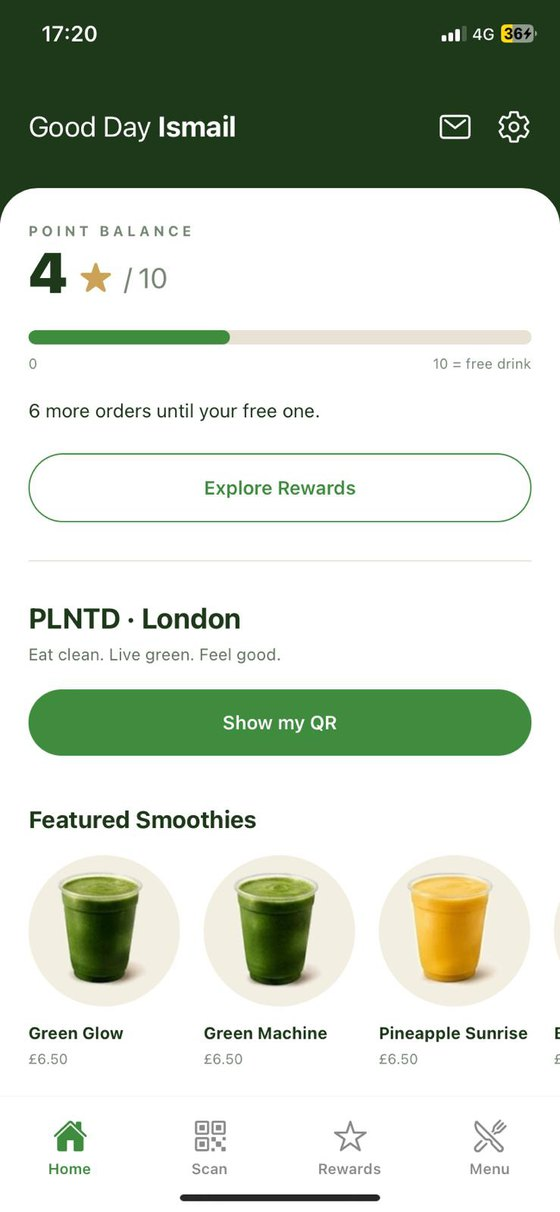
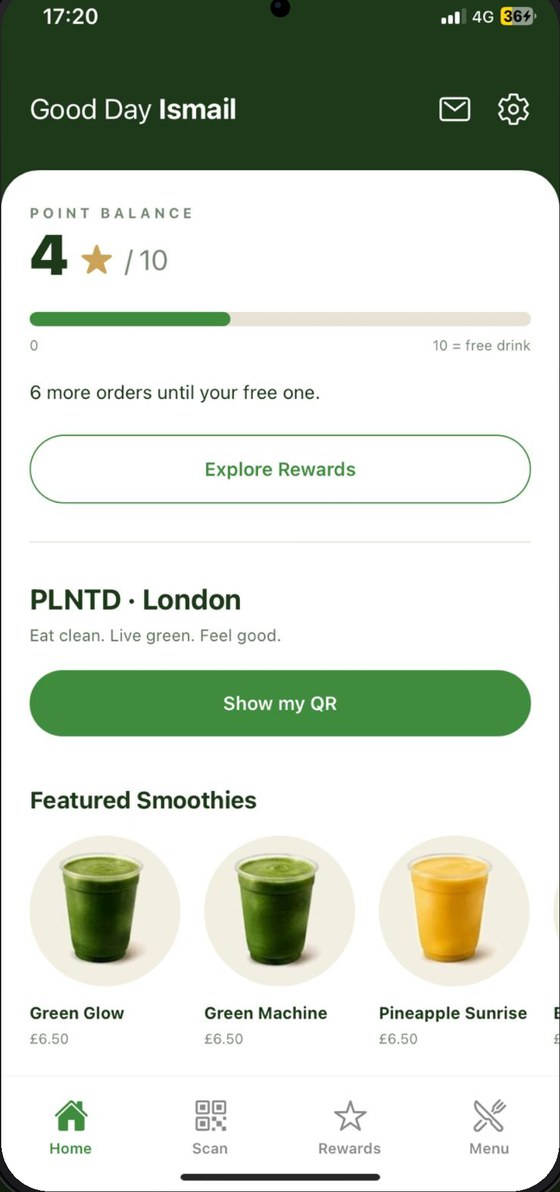
App page: use current app screenshots (today build) in phone mockup

diff --git a/app.html b/app.html
@@ -613,10 +613,10 @@ function PhoneShowcase() {
   // Real screenshots of the live app (replaces the earlier re-created UI).
   // Each shot already includes the phone status bar and bottom tab bar.
   const APP_SHOTS = {
-    Home:    'assets/app/app-home.jpg',
-    Scan:    'assets/app/app-scan.jpg',
-    Rewards: 'assets/app/app-rewards.jpg',
-    Menu:    'assets/app/app-menu.jpg'
+    Home:    'assets/app/app-home.jpg?v=2',
+    Scan:    'assets/app/app-scan.jpg?v=2',
+    Rewards: 'assets/app/app-rewards.jpg?v=2',
+    Menu:    'assets/app/app-menu.jpg?v=2'
   };
   const renderScreen = (id) =>
     <img className="app-shot" src={APP_SHOTS[id]} alt={`PLNTD app — ${id}`} draggable="false" />;
